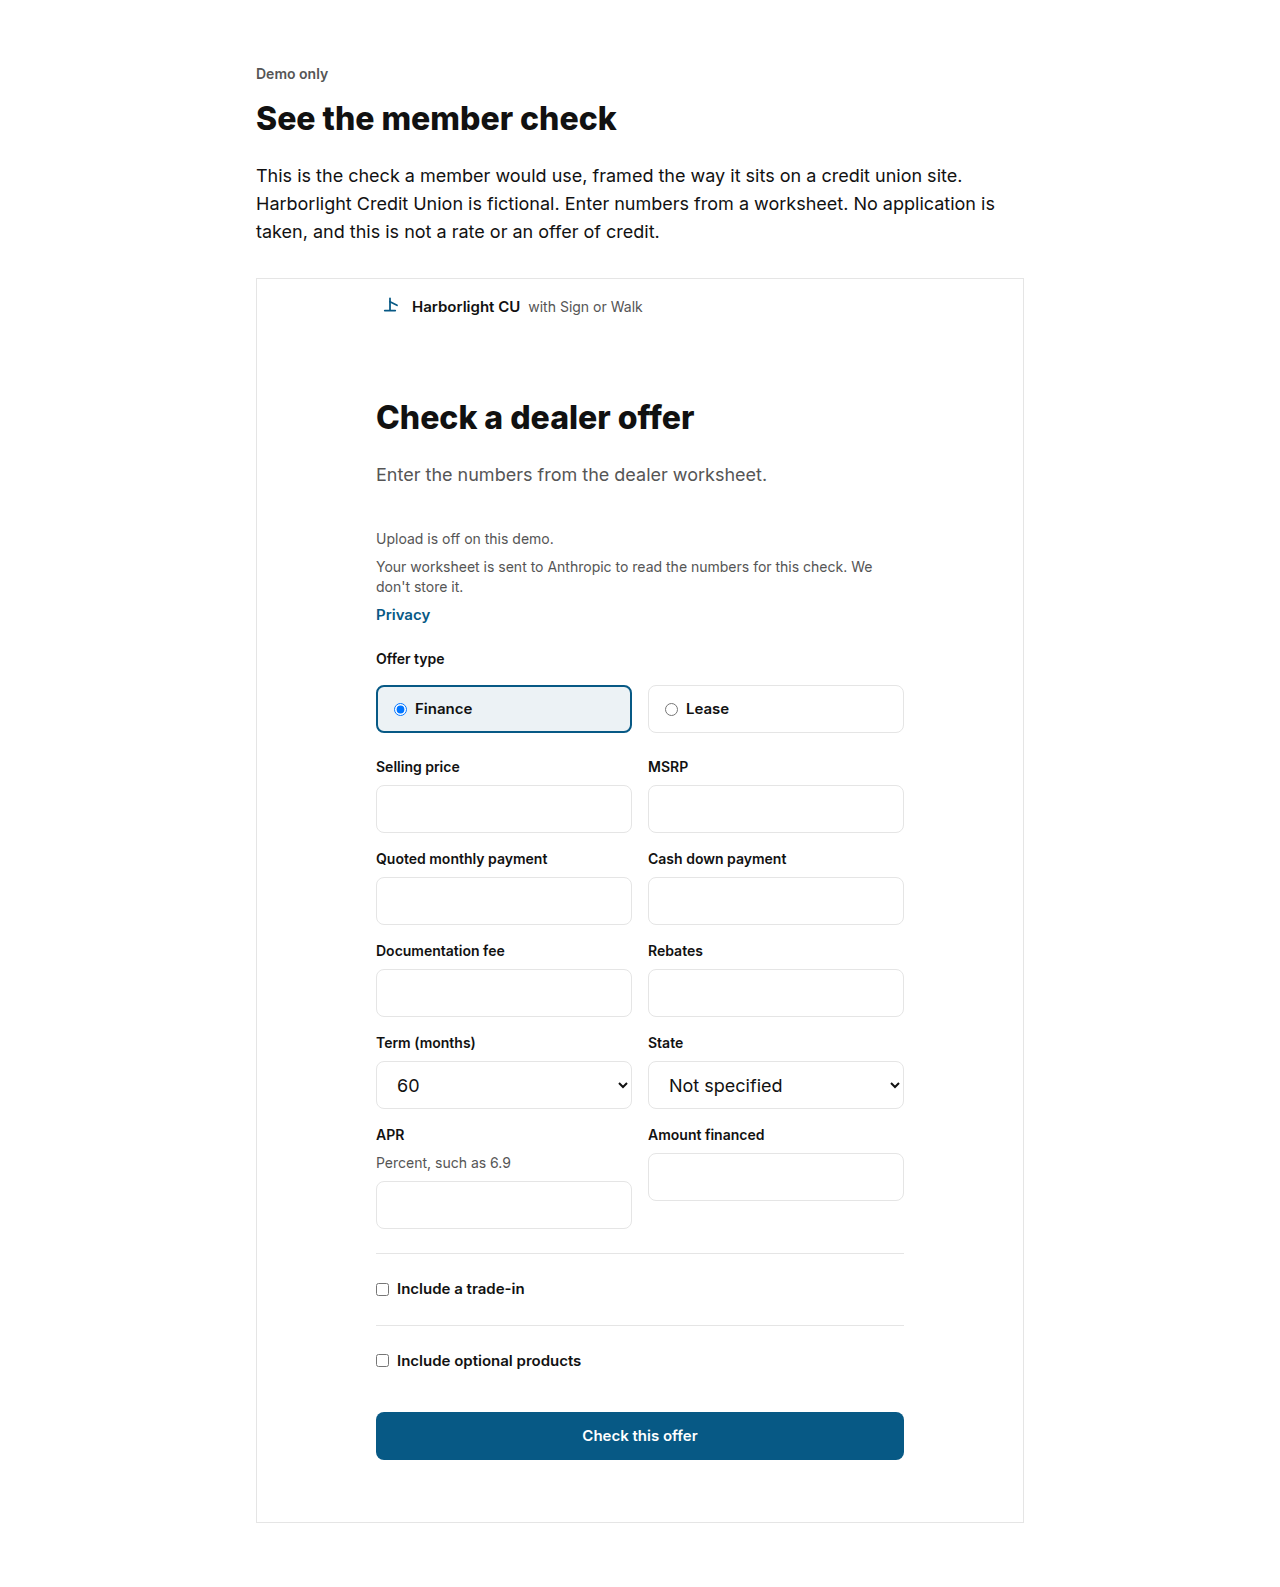
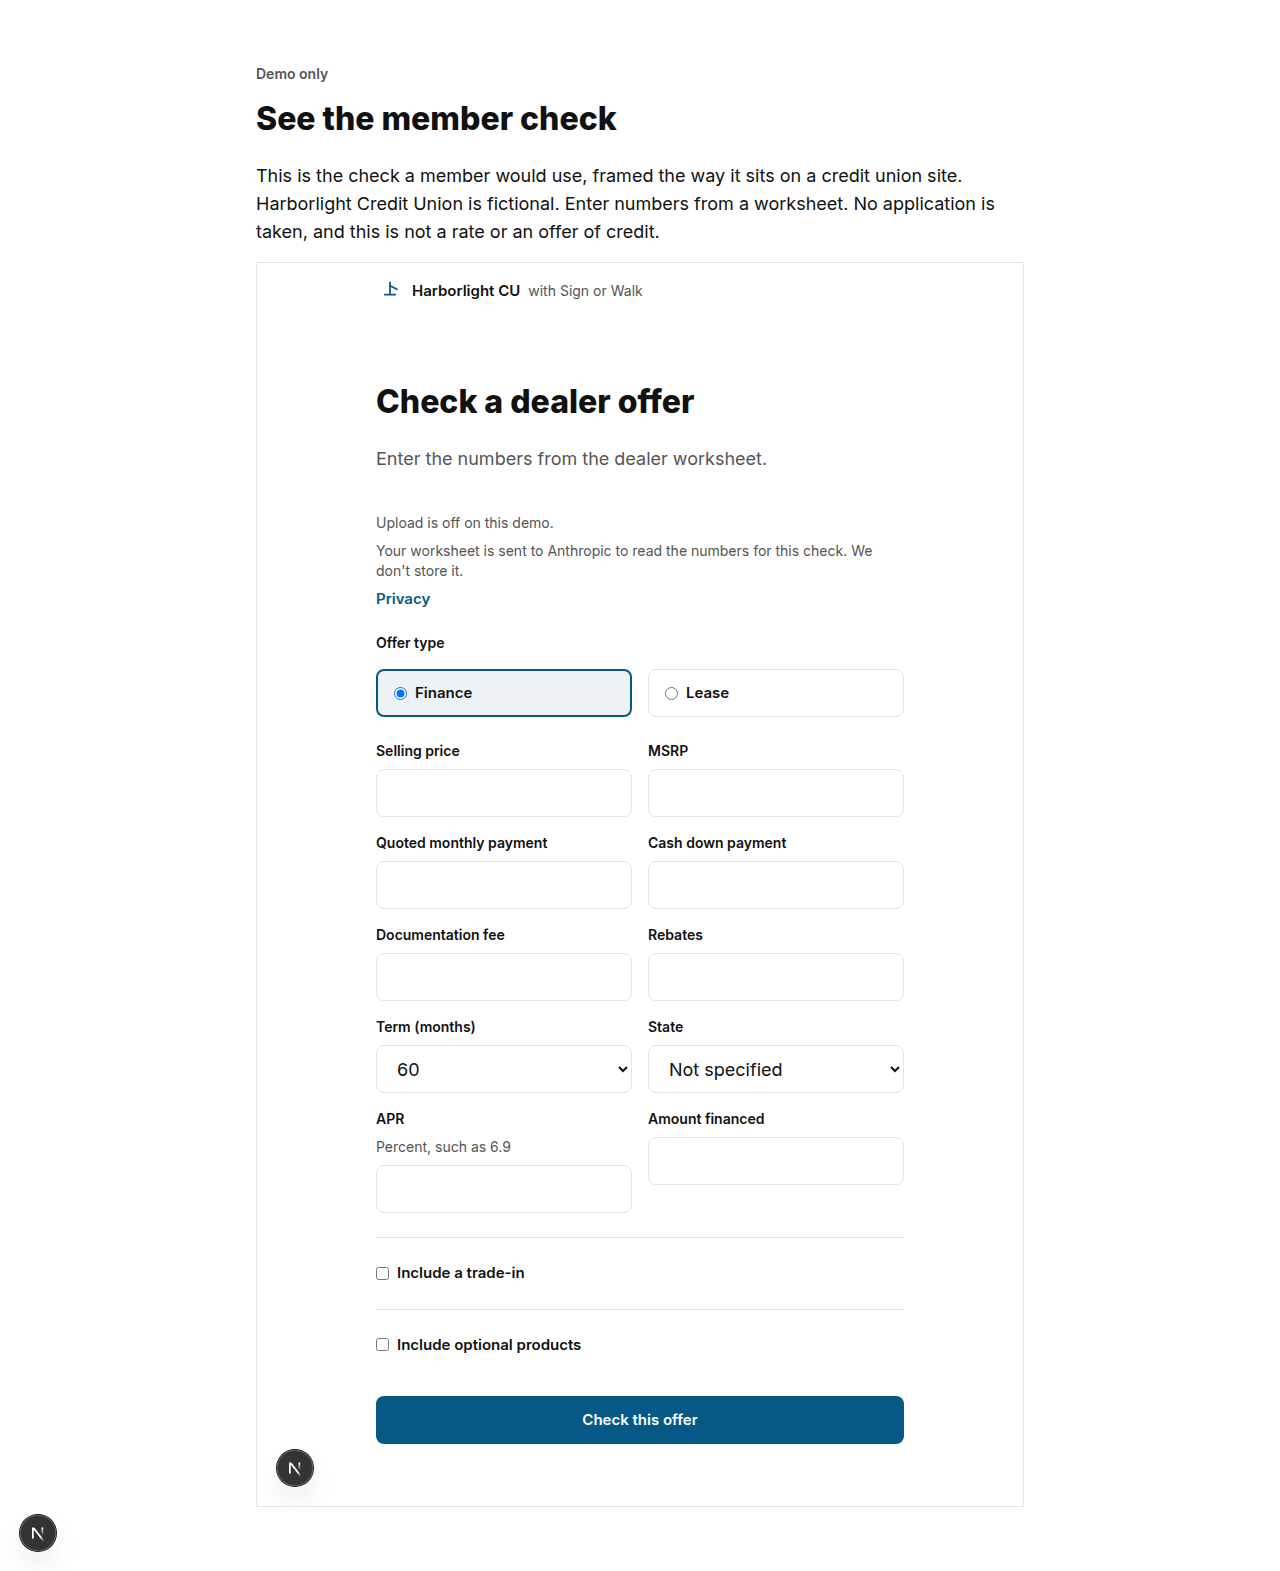
Size the live check to its content and align a B grade with its items.
Landing hosts follow the embed resize message, a B with nothing to review no longer says it compares favorably, and Impact stays on the consumer site.

diff --git a/src/app/credit-unions/embed-demo/EmbedDemo.tsx b/src/app/credit-unions/embed-demo/EmbedDemo.tsx
@@ -1,29 +1,10 @@
 'use client';
 
-import { useEffect, useState } from 'react';
-import { EMBED_COMPLETED, EMBED_RESIZE } from '@/cu/embed-client';
+import { useState } from 'react';
+import { LiveEmbed } from '../LiveEmbed';
 
 export function EmbedDemo() {
-  const [height, setHeight] = useState<number | null>(null);
   const [grade, setGrade] = useState<string | null>(null);
-
-  useEffect(() => {
-    function onMessage(event: MessageEvent) {
-      if (event.origin !== window.location.origin) return;
-      const data = event.data as { type?: unknown; height?: unknown; grade?: unknown } | null;
-      if (!data || typeof data !== 'object') return;
-      if (data.type === EMBED_RESIZE && typeof data.height === 'number' && Number.isFinite(data.height)) {
-        const frame = document.getElementById('sow-cu');
-        if (frame) frame.style.height = `${data.height}px`;
-        setHeight(data.height);
-      }
-      if (data.type === EMBED_COMPLETED && typeof data.grade === 'string' && /^[ABCDF]$/.test(data.grade)) {
-        setGrade(data.grade);
-      }
-    }
-    window.addEventListener('message', onMessage);
-    return () => window.removeEventListener('message', onMessage);
-  }, []);
 
   return (
     <main className="mx-auto w-full max-w-[800px] px-4 py-10 md:py-16">
@@ -33,14 +14,12 @@ export function EmbedDemo() {
         This is the check a member would use, framed the way it sits on a credit union site. Harborlight Credit Union is fictional. Enter numbers from a worksheet. No application is taken, and this is not a rate or an offer of credit.
       </p>
       <p id="sow-embed-events" className="sr-only">
-        Resize height: {height ?? '—'} · Completed grade: {grade ?? '—'}
+        Completed grade: {grade ?? '—'}
       </p>
-      <iframe
-        id="sow-cu"
+      <LiveEmbed
         title="Check a dealer offer"
         src="/cu/harborlight-cu/embed?entry=numbers"
-        className="mt-8 w-full border cu-line"
-        style={{ height: height ?? 720 }}
+        onGrade={setGrade}
       />
     </main>
   );

diff --git a/src/app/credit-unions/LiveEmbed.tsx b/src/app/credit-unions/LiveEmbed.tsx
@@ -1,0 +1,63 @@
+'use client';
+
+import { useEffect, useState } from 'react';
+import { EMBED_COMPLETED, EMBED_RESIZE, resizeMessage } from '@/cu/embed-client';
+
+/** Same-origin host for the member check. Height follows the embed's resize messages. */
+export function LiveEmbed({
+  src,
+  title,
+  frameId = 'sow-cu',
+  onGrade,
+}: {
+  src: string;
+  title: string;
+  frameId?: string;
+  onGrade?: (grade: string) => void;
+}) {
+  const [height, setHeight] = useState<number | null>(null);
+
+  useEffect(() => {
+    const origin = window.location.origin;
+    function apply(next: number) {
+      const frame = document.getElementById(frameId);
+      if (frame) frame.style.height = `${next}px`;
+      setHeight(next);
+    }
+    function onMessage(event: MessageEvent) {
+      if (event.origin !== origin) return;
+      const data = event.data as { type?: unknown; height?: unknown; grade?: unknown } | null;
+      if (!data || typeof data !== 'object') return;
+      if (data.type === EMBED_RESIZE && typeof data.height === 'number' && Number.isFinite(data.height) && data.height > 1) {
+        apply(data.height);
+      }
+      if (data.type === EMBED_COMPLETED && typeof data.grade === 'string' && /^[ABCDF]$/.test(data.grade)) {
+        onGrade?.(data.grade);
+      }
+    }
+    function ping() {
+      const frame = document.getElementById(frameId) as HTMLIFrameElement | null;
+      try {
+        frame?.contentWindow?.postMessage(resizeMessage(1), origin);
+      } catch {
+        return;
+      }
+    }
+    window.addEventListener('message', onMessage);
+    const timers = [0, 250, 1000].map(ms => window.setTimeout(ping, ms));
+    return () => {
+      window.removeEventListener('message', onMessage);
+      for (const timer of timers) window.clearTimeout(timer);
+    };
+  }, [frameId, onGrade]);
+
+  return (
+    <iframe
+      id={frameId}
+      title={title}
+      src={src}
+      className="mt-4 w-full border cu-line"
+      style={{ height: height ?? 640 }}
+    />
+  );
+}

diff --git a/src/app/(site)/layout.tsx b/src/app/(site)/layout.tsx
@@ -1,9 +1,38 @@
 import Link from 'next/link';
 import MobileNav from '@/components/MobileNav';
 
+const structuredData = [
+  {
+    '@context': 'https://schema.org',
+    '@type': 'Organization',
+    name: 'Sign or Walk',
+    url: 'https://signorwalk.com',
+    logo: 'https://signorwalk.com/icon',
+  },
+  {
+    '@context': 'https://schema.org',
+    '@type': 'WebApplication',
+    name: 'Sign or Walk',
+    url: 'https://signorwalk.com',
+    description: 'Free AI-powered car deal grader. Get an honest grade on your lease or finance deal — every red flag, every number, word-for-word negotiation script.',
+    applicationCategory: 'FinanceApplication',
+    operatingSystem: 'Any',
+    offers: { '@type': 'Offer', price: '0', priceCurrency: 'USD' },
+  },
+];
+
 export default function ConsumerLayout({ children }: { children: React.ReactNode }) {
   return (
     <>
+      {
+        // @ts-expect-error -- Impact.com uses non-standard value attribute
+        <meta name='impact-site-verification' value='e7de6a6f-016b-4648-9f9c-158540f33c60' />
+      }
+      <script type="text/javascript" dangerouslySetInnerHTML={{ __html: `(function(i,m,p,a,c,t){c.ire_o=p;c[p]=c[p]||function(){(c[p].a=c[p].a||[]).push(arguments)};t=a.createElement(m);var z=a.getElementsByTagName(m)[0];t.async=1;t.src=i;z.parentNode.insertBefore(t,z)})('https://utt.impactcdn.com/P-A7326631-016a-4fce-96e4-0cd9e935d1861.js','script','impactStat',document,window);impactStat('transformLinks');impactStat('trackImpression');` }} />
+      <script
+        type="application/ld+json"
+        dangerouslySetInnerHTML={{ __html: JSON.stringify(structuredData) }}
+      />
       <nav className="bg-gray-900 border-b border-gray-800 sticky top-0 z-50">
         <div className="max-w-5xl mx-auto px-4 sm:px-6 h-16 flex items-center justify-between">
           <Link href="/" className="flex items-center gap-3 hover:opacity-90 transition">

diff --git a/src/cu/templates/tp-1.0.0/en.ts b/src/cu/templates/tp-1.0.0/en.ts
@@ -50,6 +50,7 @@ function t(id: string, text: string, slots: readonly Slot[] = []): Template {
 
 export const HEADLINES = {
   HL_A: t('HL_A', 'These numbers compare favorably with typical benchmarks.'),
+  HL_B_NEAR: t('HL_B_NEAR', 'These numbers are near this tool\'s benchmarks.'),
   HL_B: t('HL_B', 'These numbers are close to typical benchmarks, with a few items to review.'),
   HL_C_RATE: t('HL_C_RATE', 'The rate on this offer is above the ranges this tool uses as a benchmark.'),
   HL_C_FEES: t('HL_C_FEES', 'A fee on this offer sits outside the range this tool treats as typical.'),
@@ -65,6 +66,7 @@ export const HEADLINES = {
 export const GRADE_EXPLANATIONS = {
   GE_A: t('GE_A', 'Grade A means the numbers entered compare favorably with this tool\'s benchmarks. The grade is a comparison, not a recommendation to sign and not a credit decision.'),
   GE_B: t('GE_B', 'Grade B means the numbers are near this tool\'s benchmarks. Review any item marked for a closer look. The grade is not a credit decision.'),
+  GE_B_NEAR: t('GE_B_NEAR', 'Grade B means the numbers are near this tool\'s benchmarks. The grade is a comparison, not a recommendation to sign and not a credit decision.'),
   GE_C: t('GE_C', 'Grade C means some numbers sit outside this tool\'s benchmarks. Reviewing those items with the dealer is a reasonable next step. The grade is not a credit decision.'),
   GE_D: t('GE_D', 'Grade D means several numbers sit well outside this tool\'s benchmarks. The grade compares figures you entered. It is not a credit decision and not an instruction.'),
   GE_F: t('GE_F', 'Grade F means the combination of numbers compares unfavorably with this tool\'s benchmarks. You may want to ask for a revised written offer. The grade is not a credit decision.'),

diff --git a/src/app/cu/[tenant]/CheckForm.tsx b/src/app/cu/[tenant]/CheckForm.tsx
@@ -250,8 +250,11 @@ export function CheckForm({
   }
 
   if (report) {
-    const shown = report.itemsToReview.slice(0, 3);
-    const rest = report.itemsToReview.slice(3);
+    const shown = report.itemsToReview.slice(0, 2);
+    const rest = report.itemsToReview.slice(2);
+    const caption = report.grade === 'A' || shown.length > 0 || report.recommendation !== 'sign'
+      ? report.recommendationLabel
+      : '';
     const gradeColor = GRADE_FILL[report.grade] ?? '#111111';
     return (
       <div className={embedded
@@ -272,7 +275,7 @@ export function CheckForm({
               <span className="sr-only">{report.grade}. </span>{report.headline}
             </h1>
             <p className="mt-4 text-[18px] leading-[28px]">{report.gradeExplanation}</p>
-            <p className="mt-4 text-[15px] font-semibold leading-[24px]">{report.recommendationLabel}</p>
+            {caption ? <p className="mt-4 text-[15px] font-semibold leading-[24px]">{caption}</p> : null}
           </div>
         </div>
 
@@ -280,7 +283,12 @@ export function CheckForm({
           <section className="mt-10" aria-labelledby="review-heading">
             <h2 id="review-heading" className="text-[24px] font-bold leading-[30px]">Items to review</h2>
             <ul className="mt-4 list-disc space-y-4 pl-4 text-[18px] leading-[28px]">
-              {shown.map(item => <li key={item.id}>{item.issue}</li>)}
+              {shown.map(item => (
+                <li key={item.id}>
+                  {item.issue}
+                  <span className="mt-2 block text-[14px] leading-[20px] cu-muted">{item.action}</span>
+                </li>
+              ))}
             </ul>
           </section>
         )}

diff --git a/src/app/cu/[tenant]/embed/EmbedFrame.tsx b/src/app/cu/[tenant]/embed/EmbedFrame.tsx
@@ -2,7 +2,7 @@
 
 import { useEffect } from 'react';
 import type { DerivedBrand } from '@/cu/contrast';
-import { completedMessage, isEmbedOrigin, resizeMessage } from '@/cu/embed-client';
+import { EMBED_RESIZE, completedMessage, isEmbedOrigin, resizeMessage } from '@/cu/embed-client';
 import type { CuPublic } from '@/cu/tenants';
 import { CheckForm } from '../CheckForm';
 
@@ -35,10 +35,19 @@ export function EmbedFrame({
     const root = document.getElementById('sow-embed-root');
     const observer = new ResizeObserver(() => post());
     if (root) observer.observe(root);
+    const onPing = (event: MessageEvent) => {
+      if (event.origin !== origin) return;
+      const data = event.data as { type?: unknown } | null;
+      if (data && data.type === EMBED_RESIZE) post();
+    };
+    window.addEventListener('message', onPing);
     window.addEventListener('resize', post);
+    const timers = [250, 1000].map(ms => window.setTimeout(post, ms));
     return () => {
       observer.disconnect();
+      window.removeEventListener('message', onPing);
       window.removeEventListener('resize', post);
+      for (const timer of timers) window.clearTimeout(timer);
     };
   }, [targetOrigin]);
 

diff --git a/src/cu/engine/report.ts b/src/cu/engine/report.ts
@@ -86,6 +86,7 @@ function headline(result: EngineResult): Template {
   if (['LEASE_ADDONS', 'FIN_ADDONS'].includes(result.archetype)) return HEADLINES.HL_ADDONS;
   if (['LEASE_HIGH_FEES', 'FIN_HIGH_FEES'].includes(result.archetype)) return HEADLINES.HL_C_FEES;
   if (result.grade === 'A') return HEADLINES.HL_A;
+  if (result.grade === 'B' && result.flags.length === 0) return HEADLINES.HL_B_NEAR;
   if (result.grade === 'B') return HEADLINES.HL_B;
   return HEADLINES.HL_C_MIXED;
 }
@@ -247,7 +248,10 @@ export function buildTenantReport(input: EngineInput, creditUnionName: string): 
     recommendation: result.recommendation,
     recommendationLabel: fill(RECOMMENDATION_LABELS[result.recommendation], values),
     headline: fill(headline(result), values),
-    gradeExplanation: fill(GRADE_EXPLANATIONS[`GE_${result.grade}`], values),
+    gradeExplanation: fill(
+      result.grade === 'B' && result.flags.length === 0 ? GRADE_EXPLANATIONS.GE_B_NEAR : GRADE_EXPLANATIONS[`GE_${result.grade}`],
+      values,
+    ),
     summary: fill(summary(result), values),
     archetype: result.archetype,
     breakdown: rows,

diff --git a/src/app/credit-unions/page.tsx b/src/app/credit-unions/page.tsx
@@ -1,6 +1,7 @@
 import Link from 'next/link';
 import type { Metadata } from 'next';
 import { AiDisclosure } from './AiDisclosure';
+import { LiveEmbed } from './LiveEmbed';
 import { DOCUMENT_VERSION_LABEL, formatUsd, TALK_TO_US_EMAIL, pricedTiers, type PricedTierId } from './pricing';
 
 const PAGE_URL = 'https://signorwalk.com/credit-unions';
@@ -61,11 +62,7 @@ export default function CreditUnionsPage() {
           See it in action.{' '}
           <Link href="/credit-unions/embed-demo" className={textLink}>Open live demo</Link>
         </p>
-        <iframe
-          title="Check a dealer offer"
-          src="/cu/harborlight-cu/embed?entry=numbers"
-          className="mt-4 h-[720px] w-full border cu-line"
-        />
+        <LiveEmbed title="Check a dealer offer" src="/cu/harborlight-cu/embed?entry=numbers" />
       </div>
 
       <div className="mt-16 cu-band py-16 md:mt-24">

diff --git a/test/cu-platform.test.ts b/test/cu-platform.test.ts
@@ -266,10 +266,12 @@ test('growth copy and the worksheet route stay on the approved words', () => {
   assert.equal(page.includes('Cancel anytime'), false);
   assert.equal(page.includes('DemoFrame'), false);
   assert.match(page, /\/cu\/harborlight-cu\/embed\?entry=numbers/);
-  const iframe = page.match(/<iframe[\s\S]*?\/>/);
-  assert.ok(iframe);
-  assert.equal(iframe[0].includes('hidden'), false);
-  assert.equal(iframe[0].includes('md:hidden'), false);
+  assert.match(page, /<LiveEmbed/);
+  const iframe = readFileSync('src/app/credit-unions/LiveEmbed.tsx', 'utf8');
+  assert.match(iframe, /<iframe/);
+  assert.match(iframe, /EMBED_RESIZE/);
+  assert.equal(iframe.includes('h-[720px]'), false);
+  assert.equal(iframe.includes('hidden'), false);
   assert.match(page, /Recommended/);
   assert.equal(page.includes('Most chosen'), false);
   assert.match(page, /Over \$5B\? Email us\./);

diff --git a/src/app/layout.tsx b/src/app/layout.tsx
@@ -1,6 +1,5 @@
 import type { Metadata } from 'next';
 import { Analytics } from '@vercel/analytics/next';
-import { ConsumerTrackers } from '@/components/ConsumerTrackers';
 import './globals.css';
 
 export const metadata: Metadata = {
@@ -26,9 +25,6 @@ export const metadata: Metadata = {
 export default function RootLayout({ children }: { children: React.ReactNode }) {
   return (
     <html lang="en">
-      <head>
-        <ConsumerTrackers />
-      </head>
       <body className="min-h-screen bg-slate-50">
         {children}
         <Analytics />
